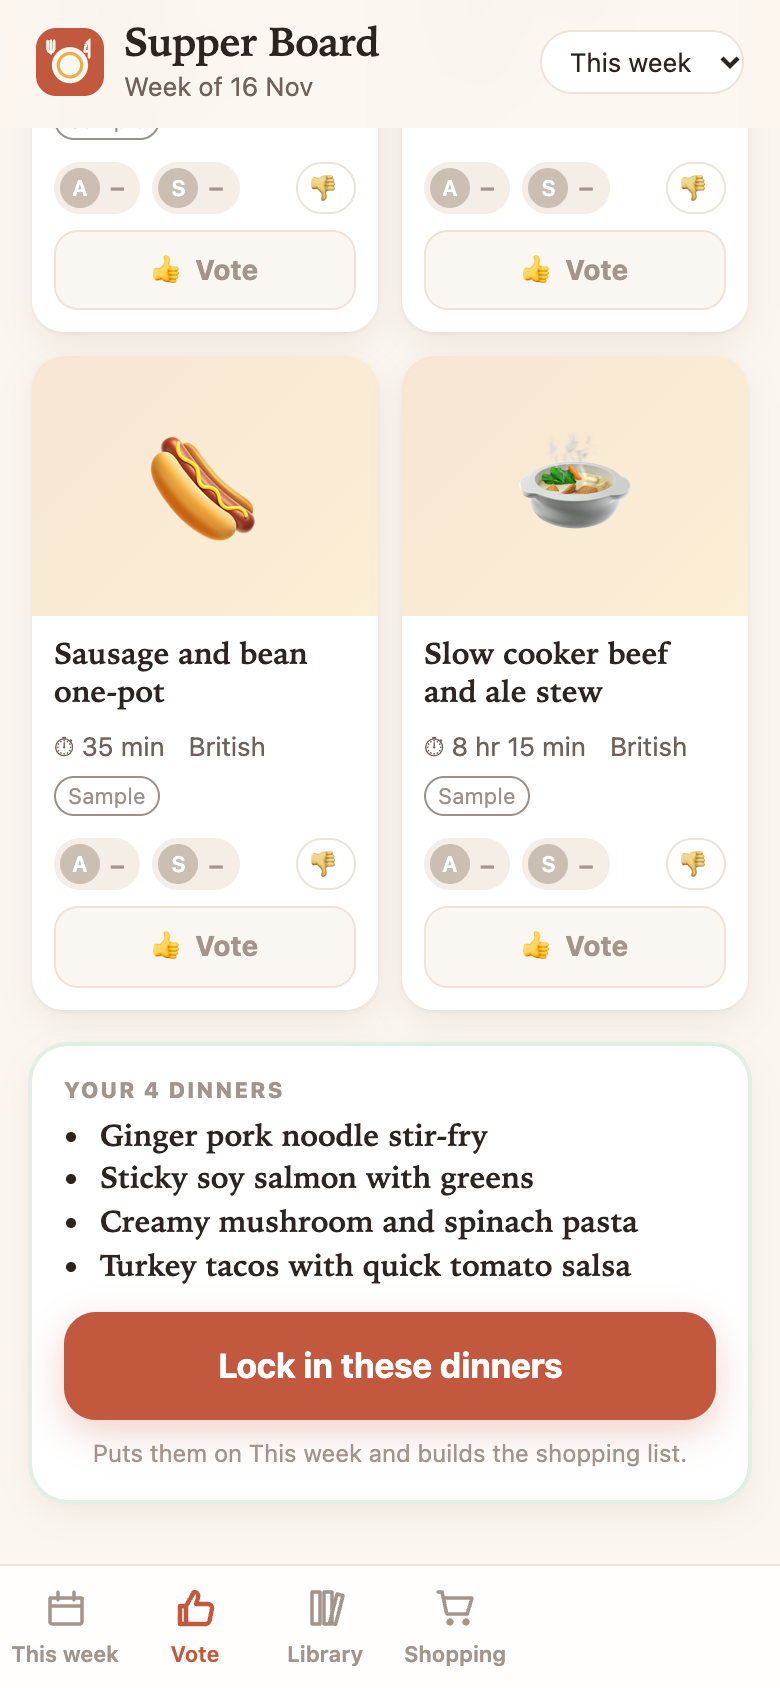
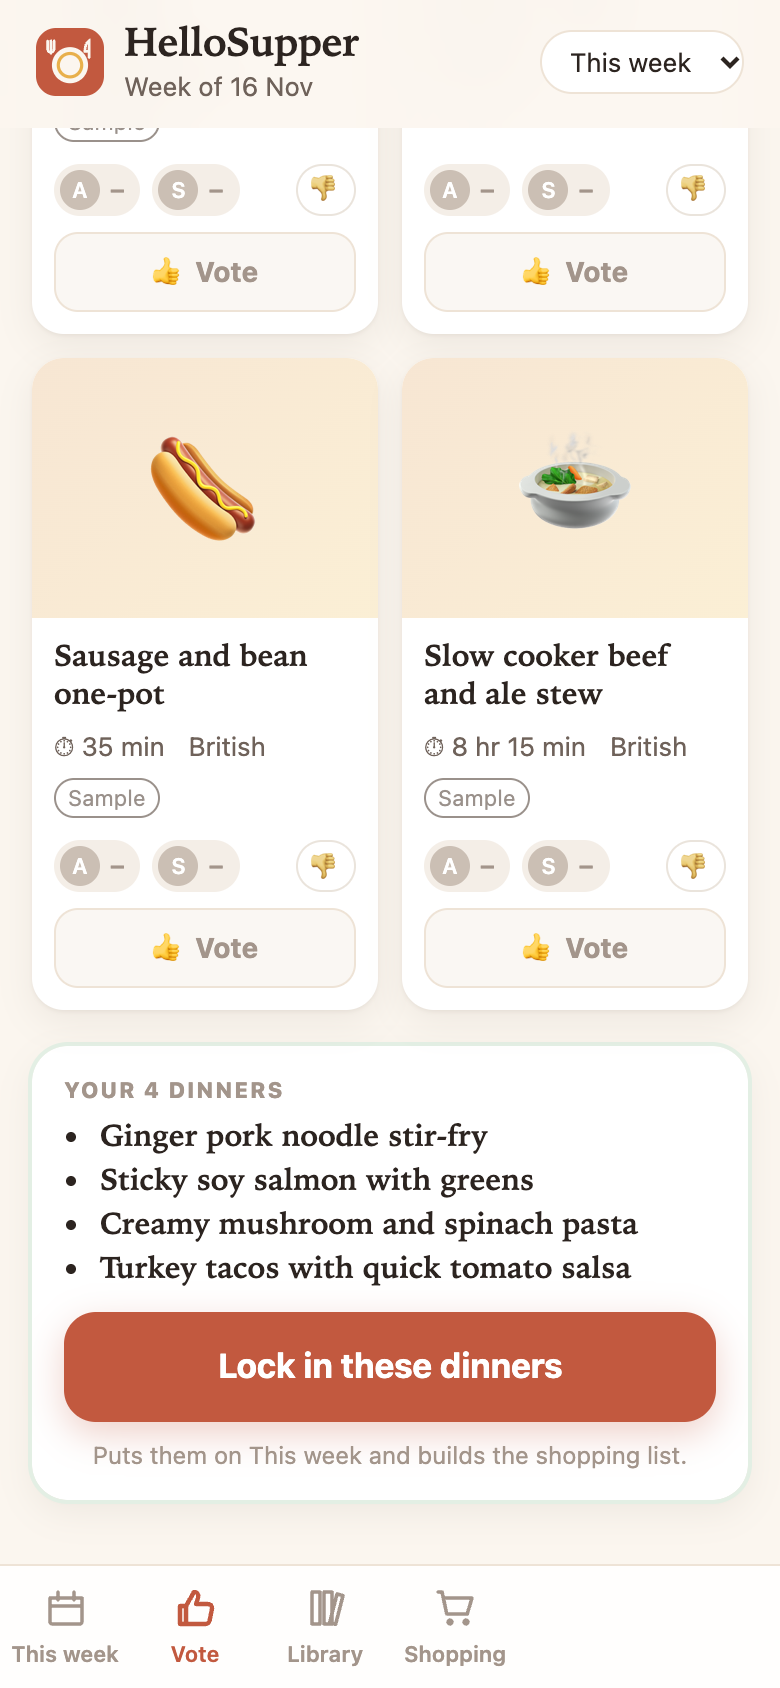
Rename to HelloSupper

diff --git a/site/index.html b/site/index.html
@@ -9,8 +9,8 @@
   <meta name="theme-color" content="#fbf6ef">
   <meta name="apple-mobile-web-app-capable" content="yes">
   <meta name="apple-mobile-web-app-status-bar-style" content="default">
-  <meta name="apple-mobile-web-app-title" content="Supper Board">
-  <title>Supper Board</title>
+  <meta name="apple-mobile-web-app-title" content="HelloSupper">
+  <title>HelloSupper</title>
   <link rel="icon" href="icon.svg" type="image/svg+xml">
   <link rel="apple-touch-icon" href="apple-touch-icon.png">
   <link rel="manifest" href="manifest.webmanifest">
@@ -22,7 +22,7 @@
     <div class="brand">
       <span class="logo" aria-hidden="true"></span>
       <div>
-        <h1 id="app-title">Supper Board</h1>
+        <h1 id="app-title">HelloSupper</h1>
         <p class="sub" id="week-label">Loading...</p>
       </div>
     </div>
@@ -39,6 +39,6 @@
     <a href="#library" data-tab="library"><svg viewBox="0 0 24 24" aria-hidden="true"><path d="M5 4h4v16H5zM11 4h4v16h-4zM17.5 5l3 .8-3.7 14.4-3-.8z"/></svg><span>Library</span></a>
     <a href="#shopping" data-tab="shopping"><svg viewBox="0 0 24 24" aria-hidden="true"><path d="M3 4h2l2.4 11h10.2L20 7H6.2M9 20a1 1 0 1 0 0-2 1 1 0 0 0 0 2Zm8 0a1 1 0 1 0 0-2 1 1 0 0 0 0 2Z"/></svg><span>Shopping</span></a>
   </nav>
-  <noscript><p class="empty">Supper Board needs JavaScript switched on.</p></noscript>
+  <noscript><p class="empty">HelloSupper needs JavaScript switched on.</p></noscript>
 </body>
 </html>

diff --git a/functions/_middleware.js b/functions/_middleware.js
@@ -30,10 +30,10 @@ function loginPage(wrong) {
 <meta name="viewport" content="width=device-width, initial-scale=1, viewport-fit=cover">
 <meta name="robots" content="noindex, nofollow">
 <meta name="apple-mobile-web-app-capable" content="yes">
-<meta name="apple-mobile-web-app-title" content="Supper Board">
+<meta name="apple-mobile-web-app-title" content="HelloSupper">
 <link rel="apple-touch-icon" href="/apple-touch-icon.png">
 <link rel="manifest" href="/manifest.webmanifest">
-<title>Supper Board</title>
+<title>HelloSupper</title>
 <style>
   body{margin:0;min-height:100vh;display:grid;place-items:center;background:#fbf6ef;color:#2b2420;
        font:17px -apple-system,BlinkMacSystemFont,"Segoe UI",sans-serif}
@@ -46,7 +46,7 @@ function loginPage(wrong) {
 </style></head>
 <body><form method="post" action="/__login">
 <img src="/apple-touch-icon.png" alt="">
-<h1>Supper Board</h1>
+<h1>HelloSupper</h1>
 <input type="password" name="password" placeholder="Password" autocomplete="current-password" autofocus required>
 <button type="submit">Open</button>
 ${wrong ? '<p>That\'s not it - try again.</p>' : ''}

diff --git a/site/recipe-page.js b/site/recipe-page.js
@@ -32,14 +32,14 @@ export function recipePage(r, origin = '') {
 <meta name="referrer" content="no-referrer">
 <meta name="robots" content="noindex, nofollow">
 <meta name="theme-color" content="#fbf6ef">
-<title>${h(r.name)} · Supper Board</title>
+<title>${h(r.name)} · HelloSupper</title>
 <link rel="icon" href="/icon.svg" type="image/svg+xml">
 <link rel="stylesheet" href="/recipe.css">
 <script type="application/ld+json">${ldScriptText(ld)}</script>
 </head>
 <body>
 <main class="recipe">
-<p class="back"><a href="/#recipe/${h(encodeURIComponent(r.id))}">‹ Open in Supper Board</a></p>
+<p class="back"><a href="/#recipe/${h(encodeURIComponent(r.id))}">‹ Open in HelloSupper</a></p>
 ${ld.image ? `<img class="hero" src="${h(r.image)}" alt="${h(r.name)}" width="1200" height="800" referrerpolicy="no-referrer">` : r.emoji ? `<div class="hero-emoji" aria-hidden="true">${h(r.emoji)}</div>` : ''}
 <h1>${h(r.name)}</h1>
 ${r.subtitle ? `<p class="subtitle">${h(r.subtitle)}</p>` : ''}

diff --git a/functions/api/import.js b/functions/api/import.js
@@ -106,7 +106,7 @@ export async function onRequestPost({ request }) {
     res = await fetch(u.href, {
       redirect: 'follow',
       signal: AbortSignal.timeout(10000),
-      headers: { 'User-Agent': 'Mozilla/5.0 (compatible; SupperBoard/1.0; personal recipe import)', Accept: 'text/html,application/xhtml+xml' },
+      headers: { 'User-Agent': 'Mozilla/5.0 (compatible; HelloSupper/1.0; personal recipe import)', Accept: 'text/html,application/xhtml+xml' },
     });
   } catch { return json({ error: "Couldn't reach that page. Check the link and try again." }, 502); }
   if (!res.ok) return json({ error: `That page answered with an error (${res.status}). Some sites block automatic reading - you can type the recipe in instead.` }, 502);

diff --git a/functions/recipe/[id].js b/functions/recipe/[id].js
@@ -15,7 +15,7 @@ export async function onRequestGet(context) {
   const saved = (await loadRecipes(env)).map.get(id);
   const r = saved && customToRecipe(saved);
   if (!r || pageProblem(r)) {
-    return new Response('<!doctype html><meta charset="utf-8"><title>Not found · Supper Board</title><p>No such recipe. <a href="/#library">Open the Library</a></p>',
+    return new Response('<!doctype html><meta charset="utf-8"><title>Not found · HelloSupper</title><p>No such recipe. <a href="/#library">Open the Library</a></p>',
       { status: 404, headers: { 'Content-Type': 'text/html; charset=utf-8', 'Cache-Control': 'no-store' } });
   }
   return new Response(recipePage(r, new URL(request.url).origin), {

diff --git a/site/categories.js b/site/categories.js
@@ -1,4 +1,4 @@
-// Supper Board recipe categories - ONE place for "which categories is this recipe in", shared by the board (Library chips),
+// HelloSupper recipe categories - ONE place for "which categories is this recipe in", shared by the board (Library chips),
 // scripts/sync-site.mjs (precomputed `cats` in recipes-index.json), scripts/board.mjs, functions/api/state.js (explicit
 // categories on added recipes), shortlist.js (the rules) and recipe-ld.js (JSON-LD `keywords`). ES module, no dependencies.
 // A recipe can be in many categories (Chinese + Under 20 min + Chicken). Rules prefer leaving a recipe out over guessing.

diff --git a/site/recipe-ld.js b/site/recipe-ld.js
@@ -1,4 +1,4 @@
-// schema.org Recipe JSON-LD for a Supper Board recipe - what Safari on Apple HomeView reads to build its step-by-step
+// schema.org Recipe JSON-LD for a HelloSupper recipe - what Safari on Apple HomeView reads to build its step-by-step
 // cooking view (https://webkit.org/blog/18608/safari-on-apple-homeview/). ES module, no dependencies: used by
 // scripts/sync-site.mjs (static /recipe/<id> pages), site/recipe-page.js and app.js (the open recipe sheet).
 // Only fields we actually have are emitted; nothing is made up (no cookTime unless it's in the data, no ratings, etc).

diff --git a/site/shortlist.js b/site/shortlist.js
@@ -1,4 +1,4 @@
-// Supper Board shortlist rules: one place for "what goes on the weekly vote". Shared by the board (the first list of
+// HelloSupper shortlist rules: one place for "what goes on the weekly vote". Shared by the board (the first list of
 // the week, "Show me more" and "Not for us") and by scripts/board.mjs. ES module, no dependencies apart from categories.js.
 // The rules come from data/config.json ("rules"), so you can change them without touching code:
 //   "rules": { "maxMinutes": 45, "exclude": ["fish"], "maxSameProtein": 3, "maxSlowCooker": 1 }

diff --git a/site/app.js b/site/app.js
@@ -1,4 +1,4 @@
-// Supper Board - vanilla JS, no build step. Reads the recipe library and settings from ./data/ (written by
+// HelloSupper - vanilla JS, no build step. Reads the recipe library and settings from ./data/ (written by
 // scripts/sync-site.mjs). Votes, the week's list, locked-in dinners, shopping extras, "Not for us" and your own recipes are
 // shared between phones through /api/state (Cloudflare Pages Function + KV). Recipe and shopping tick-offs stay on each
 // device (localStorage).

diff --git a/site/styles.css b/site/styles.css
@@ -1,4 +1,4 @@
-/* Supper Board - warm, light, mobile-first. System fonts only (no external requests). */
+/* HelloSupper - warm, light, mobile-first. System fonts only (no external requests). */
 :root {
   --bg: #fbf6ef;
   --card: #ffffff;

diff --git a/docs/SETUP.md b/docs/SETUP.md
@@ -1,4 +1,4 @@
-# Setting up Supper Board
+# Setting up HelloSupper
 
 This guide assumes no technical knowledge. It takes about 30 to 45 minutes the first time. Everything here is free.
 
@@ -37,7 +37,7 @@ node --version
 The easiest way:
 
 1. Sign in to GitHub and open this project's page.
-2. Click **Fork** (top right), then **Create fork**. You now have your own copy at `github.com/<your-name>/supper-board`.
+2. Click **Fork** (top right), then **Create fork**. You now have your own copy at `github.com/<your-name>/hellosupper`.
 3. On your copy's page, click the green **Code** button, then **Download ZIP**. Unzip it somewhere easy to find, such as your Documents folder.
 
 If you already use Git, you can `git clone` your fork instead.
@@ -50,7 +50,7 @@ Open `data/config.json` in any text editor (TextEdit on a Mac, Notepad on Window
 
 ```json
 {
-  "title": "Supper Board",
+  "title": "HelloSupper",
   "people": [
     { "id": "alex", "name": "Alex" },
     { "id": "sam", "name": "Sam" }
@@ -94,7 +94,7 @@ The first time, it asks to install a Cloudflare tool called `wrangler`. Type `y`
 
 Open **http://localhost:8788** in your browser. You'll see the sign-in page:
 
-<img src="images/sign-in.png" width="260" alt="The Supper Board sign-in page with a password box">
+<img src="images/sign-in.png" width="260" alt="The HelloSupper sign-in page with a password box">
 
 Type `letmein` and press **Open**. This password only exists on your computer. You'll choose a real one in the next step.
 
@@ -114,14 +114,14 @@ The board keeps votes, your own recipes and the week's settings in a small store
 
 1. Sign in at [dash.cloudflare.com](https://dash.cloudflare.com).
 2. In the left-hand menu, open **Storage & Databases**, then **KV** (it may be under **Workers KV**).
-3. Click **Create** (or **Create a namespace**). Name it `supper-board-state` and save.
+3. Click **Create** (or **Create a namespace**). Name it `hellosupper-state` and save.
 
 ### Option A: Connect your GitHub copy (recommended)
 
 1. First, put your settings on GitHub. On your fork's page, open `data/config.json`, click the pencil icon, make the same changes as in step 3, and click **Commit changes**.
 2. In Cloudflare, open **Workers & Pages** and click **Create** (or **Create application**).
 3. Choose the **Pages** tab, then **Connect to Git** (or **Import an existing Git repository**).
-4. Connect your GitHub account when asked, and choose your `supper-board` repository.
+4. Connect your GitHub account when asked, and choose your `hellosupper` repository.
 5. On the build settings screen, enter:
    - **Project name:** anything you like, for example `our-dinners`. This becomes your address: `our-dinners.pages.dev`.
    - **Production branch:** `main`
@@ -145,7 +145,7 @@ The board keeps votes, your own recipes and the week's settings in a small store
    npm run deploy
    ```
 
-   The first time, it asks whether to create a new project. Say yes, give it a name (for example `our-dinners`) and use `main` as the production branch. If you chose a name other than `supper-board`, open `package.json` and change `--project-name supper-board` in the `deploy` line to your name first.
+   The first time, it asks whether to create a new project. Say yes, give it a name (for example `our-dinners`) and use `main` as the production branch. If you chose a name other than `hellosupper`, open `package.json` and change `--project-name hellosupper` in the `deploy` line to your name first.
 
 ### Step 5.2: Connect the storage and set your password (both options)
 
@@ -153,7 +153,7 @@ The board keeps votes, your own recipes and the week's settings in a small store
 2. Open **Settings**, then **Bindings** (on older screens: **Functions**, then **KV namespace bindings**).
 3. Click **Add**, choose **KV namespace**, and enter:
    - **Variable name:** `STATE` (exactly that, in capitals)
-   - **KV namespace:** `supper-board-state`
+   - **KV namespace:** `hellosupper-state`
 4. Save. If it asks about **Production** and **Preview**, add it to both.
 5. Still in **Settings**, open **Variables and Secrets** (or **Environment variables**). Click **Add**:
    - **Type:** Secret (or tick **Encrypt**)

diff --git a/docs/AI-AGENTS.md b/docs/AI-AGENTS.md
@@ -1,4 +1,4 @@
-# Using Supper Board with an AI agent
+# Using HelloSupper with an AI agent
 
 You don't need an AI agent. Everything on the board works by tapping. An agent is handy for the fiddly bits: typing in a recipe from a photo, telling the board you're away on Thursday, or turning the shopping list into an online order.
 
@@ -60,11 +60,11 @@ The tool tells you which categories the recipe landed in and whether anything is
 [OpenClaw](https://docs.openclaw.ai) is a personal AI assistant that runs on your own computer and that you can message from your phone. It can run commands and use a web browser for you.
 
 1. Install OpenClaw by following its [documentation](https://docs.openclaw.ai).
-2. Put your Supper Board folder somewhere OpenClaw can reach, such as inside its workspace folder.
-3. Tell it, once: *"My meal-planning board is in the supper-board folder. Read README.md and docs/AI-AGENTS.md. The board is at https://our-dinners.pages.dev and the password is ... Keep the password somewhere safe, not in the project folder."*
+2. Put your HelloSupper folder somewhere OpenClaw can reach, such as inside its workspace folder.
+3. Tell it, once: *"My meal-planning board is in the hellosupper folder. Read README.md and docs/AI-AGENTS.md. The board is at https://our-dinners.pages.dev and the password is ... Keep the password somewhere safe, not in the project folder."*
 4. Then just ask, from wherever you message it:
    - *"What did we vote for this week?"*
-   - *"Add this to Supper Board"* and send a link, a screenshot of a recipe, or a photo of a cookbook page.
+   - *"Add this to HelloSupper"* and send a link, a screenshot of a recipe, or a photo of a cookbook page.
    - *"We're out on Wednesday, so three dinners this week."*
    - *"Send me this week's shopping list."*
 
@@ -75,7 +75,7 @@ OpenClaw can also do your online shop in your browser. See "Optional: how one ho
 [Claude Code](https://docs.anthropic.com/en/docs/claude-code) is an AI assistant that works in a terminal, inside a project folder.
 
 1. Install it by following its documentation.
-2. Open a terminal in your Supper Board folder, set `SB_URL` and `SB_PASSWORD` as above, and type `claude`.
+2. Open a terminal in your HelloSupper folder, set `SB_URL` and `SB_PASSWORD` as above, and type `claude`.
 3. Ask in plain English:
    - *"Help me set this up. Follow docs/SETUP.md."*
    - *"Add this recipe to the board: <paste the recipe>"*
